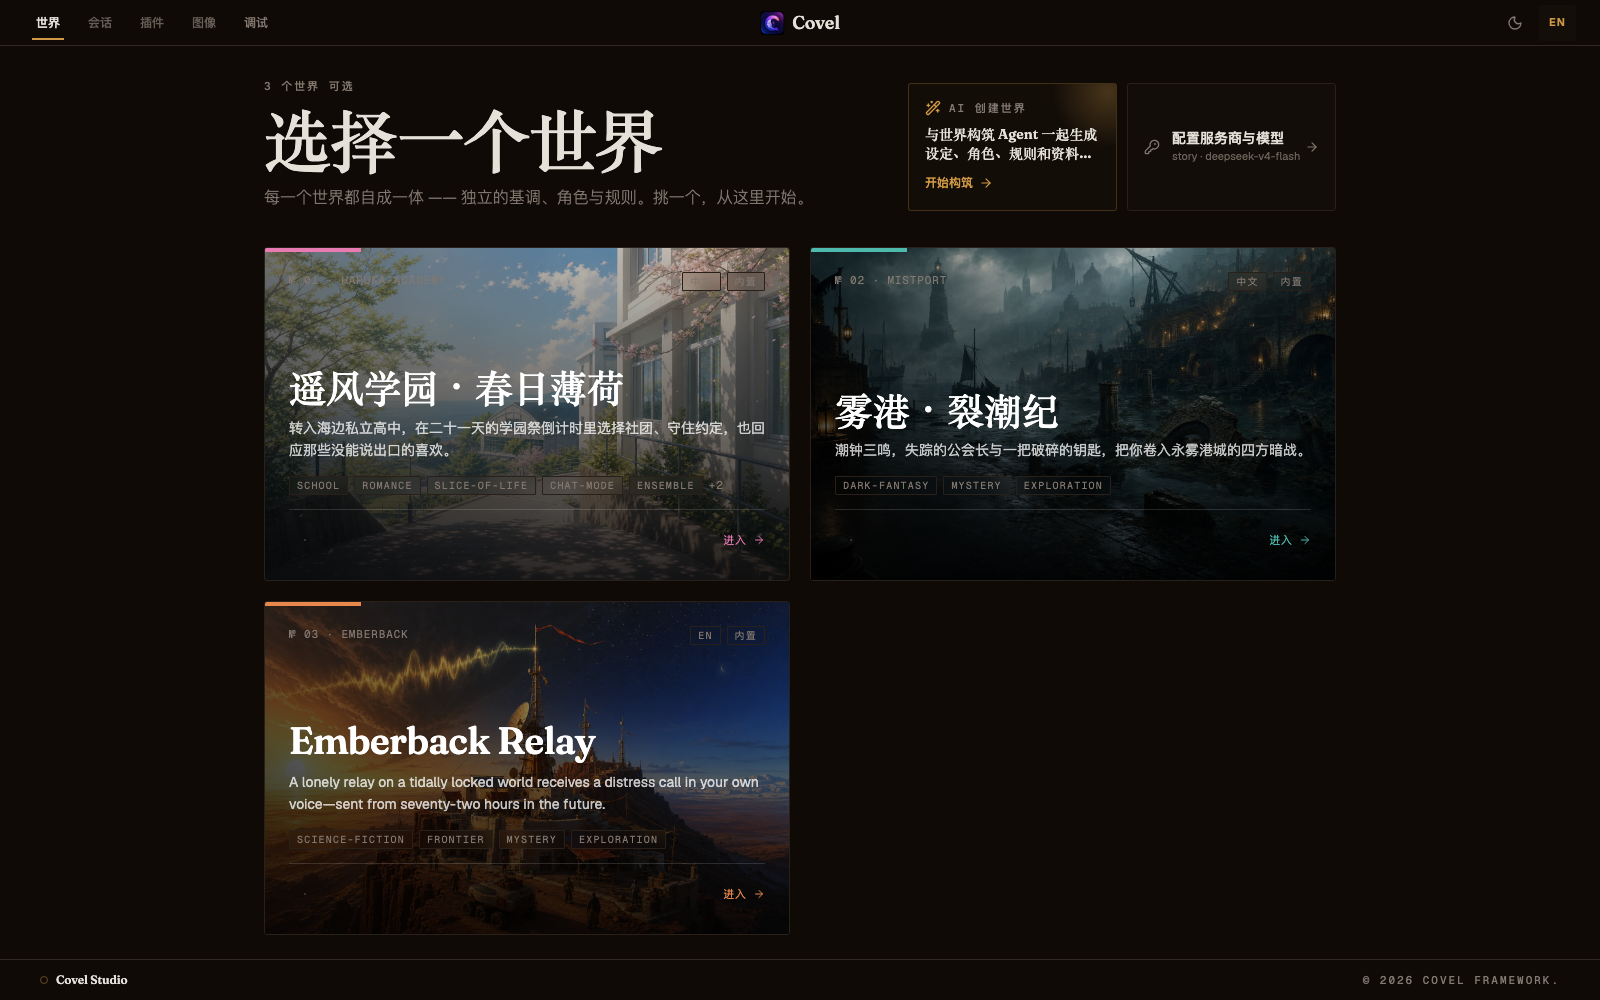
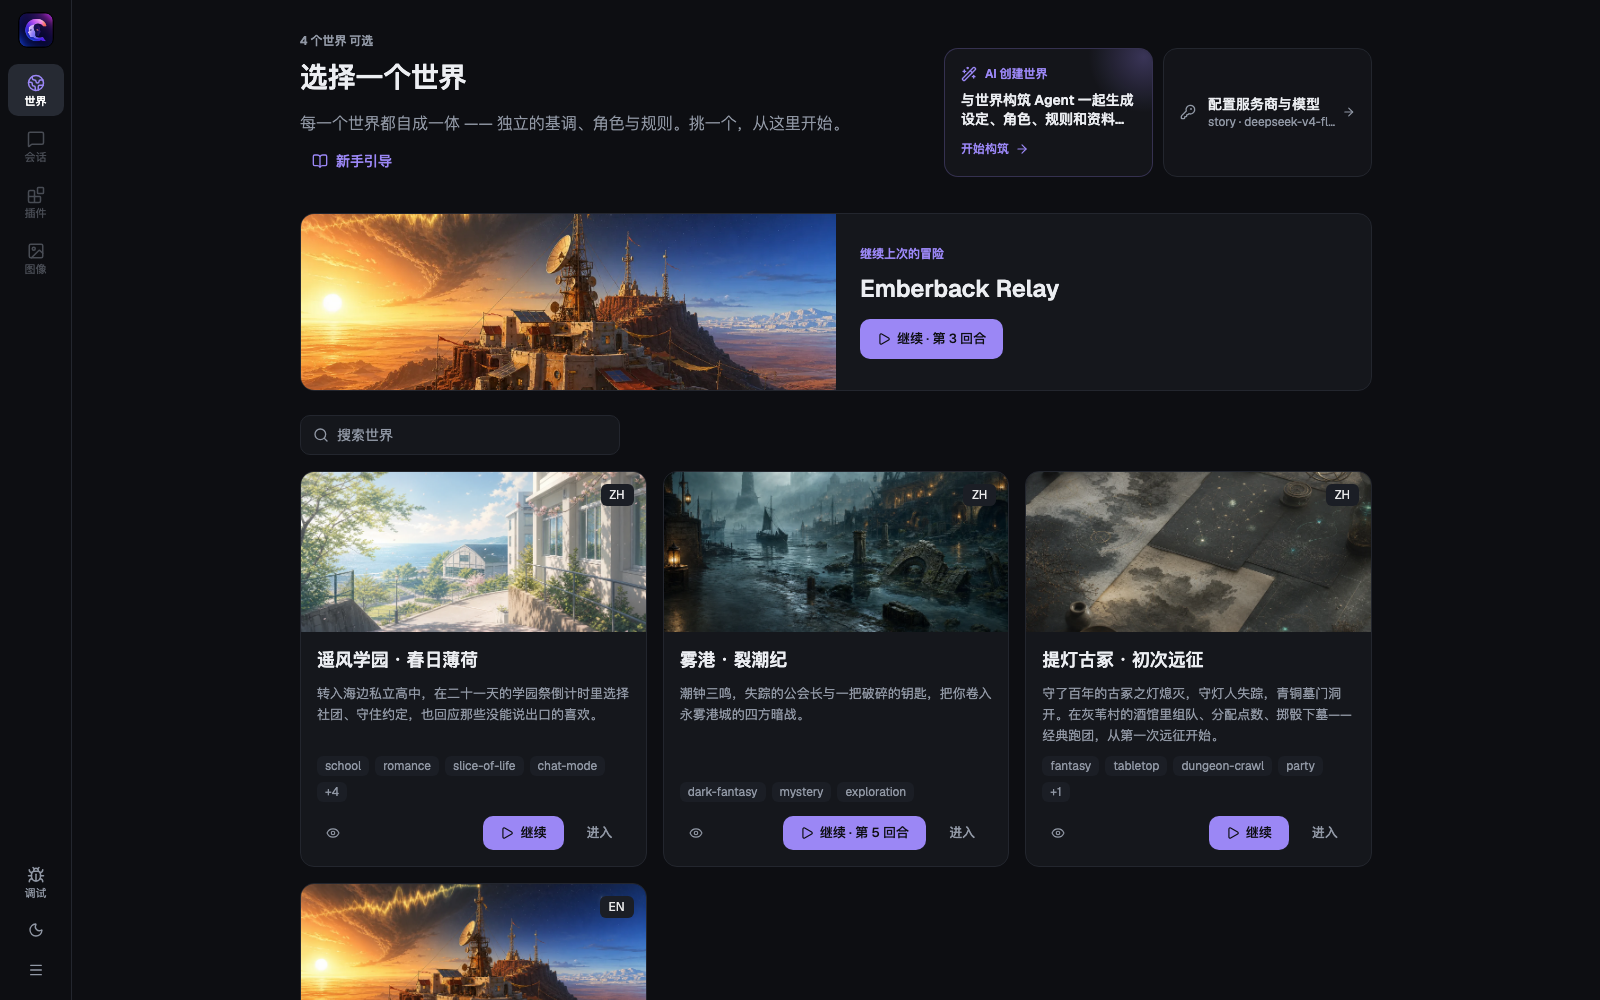
docs(readme): show the new layouts and the three style schemes
Five screenshots are retaken in the new default scheme, and a short
section with three more introduces the Panel, Book and Stage schemes.
Both READMEs carry the same change. The trace inspector and world
builder images, and the demo recording, still show the earlier look.

diff --git a/README.md b/README.md
@@ -36,6 +36,15 @@ Covel is an AI RPG framework and playable studio where NPC relationships, lore, 
 
 Worlds declare their default (`defaultViewMode: stage`); you can switch any time in-session.
 
+## Three looks, one setting
+
+|                          Panel                           |                            Book                            |                               Stage                                |
+| :------------------------------------------------------: | :--------------------------------------------------------: | :----------------------------------------------------------------: |
+| ![Panel scheme](./.assets/images/readme/style-panel.png) |   ![Book scheme](./.assets/images/readme/style-book.png)   |      ![Stage scheme](./.assets/images/readme/style-stage.png)      |
+| App-like: icon rail, tagged option cards, a status strip | Reading-first: serif prose, numbered options, margin notes | Scene-first: full-bleed art, the cast on stage, key-capped options |
+
+A style scheme changes structure as well as colour — where navigation sits, how options are drawn, what the session does with world art. Pick one in **Settings → Appearance**; the earlier themes live on as colourways of a fourth, Classic. Schemes are theme packages, so you can save your own or import someone else's ([guide](./docs/guide/themes.md)). Plugin UI follows whichever scheme is active without knowing about it.
+
 ## How the pieces fit together
 
 | Layer              | Owns                                     | Typical contents                                                                              |
@@ -126,7 +135,7 @@ The built-in Trace Inspector groups execution by session and turn, then exposes 
 
 ## Every roll leaves a receipt
 
-![A dice check, quest progress, and a gear change posting into the turn, with the quest log open alongside](./.assets/images/readme/rpg-systems.png)
+![Relationship and gear changes posting into the turn; the status strip shows the current objective and pack, with the quest log open alongside](./.assets/images/readme/rpg-systems.png)
 
 A risky action resolves against dice rolled **before** the narrator writes, so the outcome cannot be retconned to fit the prose — and the arithmetic posts inline: `19 + 2 = 21 vs DC 16`. Quest progress, gear changes, and affinity shifts land in the turn the same way, then accumulate into their own panels. Dice, quests, inventory, and affinity are four separate plugins; a world seeds the opening quests, starting gear, and initial affinity, or ships without any of them.
 

diff --git a/README.zh-CN.md b/README.zh-CN.md
@@ -36,6 +36,15 @@ Covel 是一套 AI RPG 框架，也是一间可以直接游玩的工作室：NPC
 
 世界声明自己的默认档（`defaultViewMode: stage`），游戏中可随时切换。
 
+## 三套风格，一处切换
+
+|                         面板                         |                        书卷                         |                         舞台                         |
+| :--------------------------------------------------: | :-------------------------------------------------: | :--------------------------------------------------: |
+| ![面板方案](./.assets/images/readme/style-panel.png) | ![书卷方案](./.assets/images/readme/style-book.png) | ![舞台方案](./.assets/images/readme/style-stage.png) |
+|      应用式：图标导航、带标签的选项卡片、状态条      |       阅读优先：宋体正文、编号选项、页边批注        |       场景优先：场景图铺满、在场角色、键帽选项       |
+
+风格方案改的不只是配色，还有结构：导航放在哪、选项怎么画、会话怎样使用世界美术。在**设置 → 外观**里选一套；原来的几套主题成了第四种风格「经典」下的配色。方案就是主题包，可以另存为自己的，也可以导入别人的（[指南](./docs/guide/themes.md)）。插件界面不需要知道当前是哪套方案，会自动跟随。
+
 ## 三层怎样配合
 
 | 层级       | 负责什么             | 常见内容                                                            |
@@ -124,7 +133,7 @@ worlds/my-world/data/rules/core.ja.yaml
 
 ## 每一次判定都有回执
 
-![判定回执、任务推进与装备变动落在这一回合里，右侧是任务日志](./.assets/images/readme/rpg-systems.png)
+![好感与装备变动落在这一回合里；状态条显示当前目标和行囊，右侧是任务日志](./.assets/images/readme/rpg-systems.png)
 
 有风险的行动，判定用的骰子在叙事**动笔之前**就已经掷好，结果不会被行文倒推改写 —— 算式直接落在正文里：`19 + 2 = 21 vs DC 16`。任务推进、装备变动、好感升降也以同样方式回执在这一回合里，再沉淀进各自的面板。骰子、任务、行囊、好感是四个独立插件；世界包预置开局任务、初始装备与初始好感，也可以一个都不装。
 
